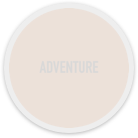
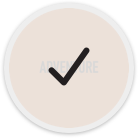
fixes loading screen

Changed region(s): [[0.3478, 0.3188, 0.6667, 0.6377]]

diff --git a/src/app/loading-screen/loading-screen.component.ts b/src/app/loading-screen/loading-screen.component.ts
@@ -10,7 +10,7 @@ import { Component } from '@angular/core';
     </div>
   </div>
   `,
-  styles: ['.container { background-color: white }', '.logo { margin-top: 35%; margin-left: 45% }', '.copy { font-weight: bold; margin-left: 45% }']
+  styles: ['.container { background-image: url(../../assets/images/pattern.png); padding-top: 30%; margin: 0; width: 1024px; height: 768px}', '.logo {margin-left: 45% }', '.copy { font-weight: bold; margin-left: 45% }']
 })
 
 export class LoadingScreenComponent {
